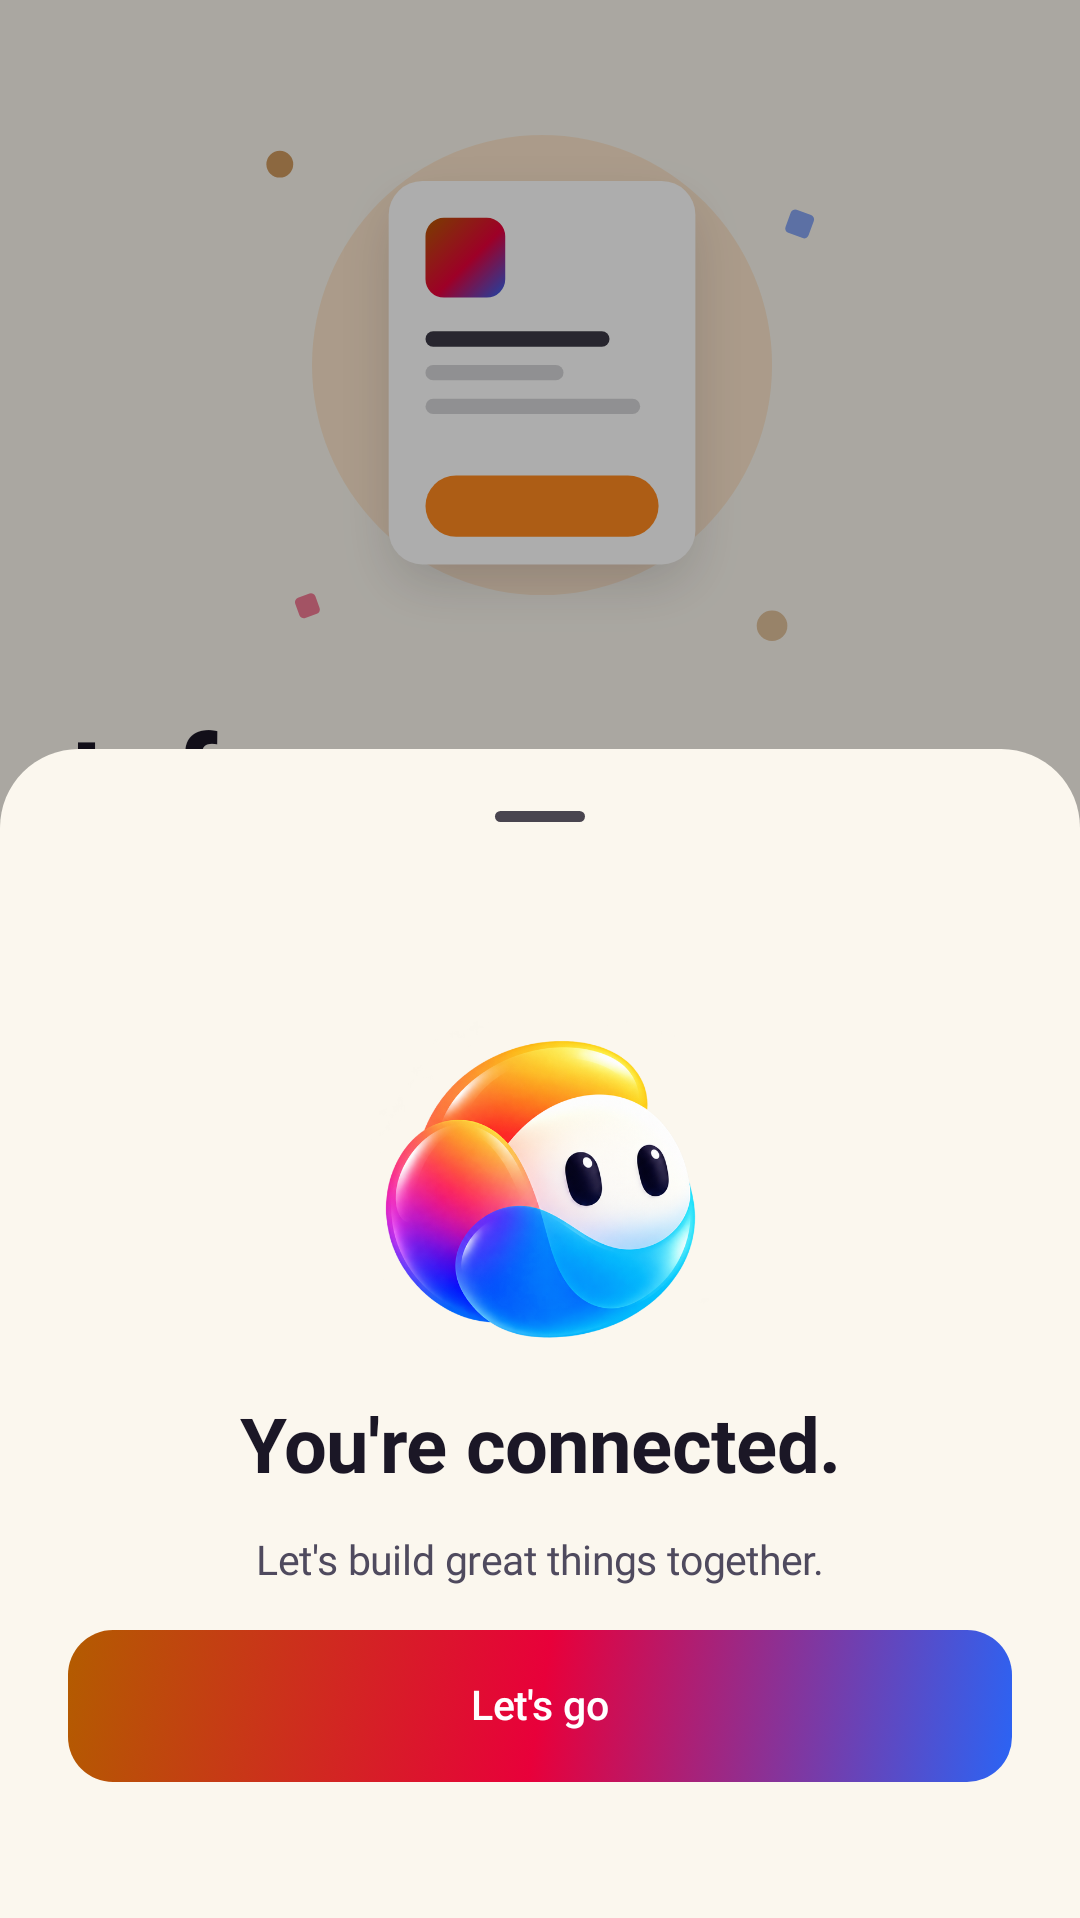
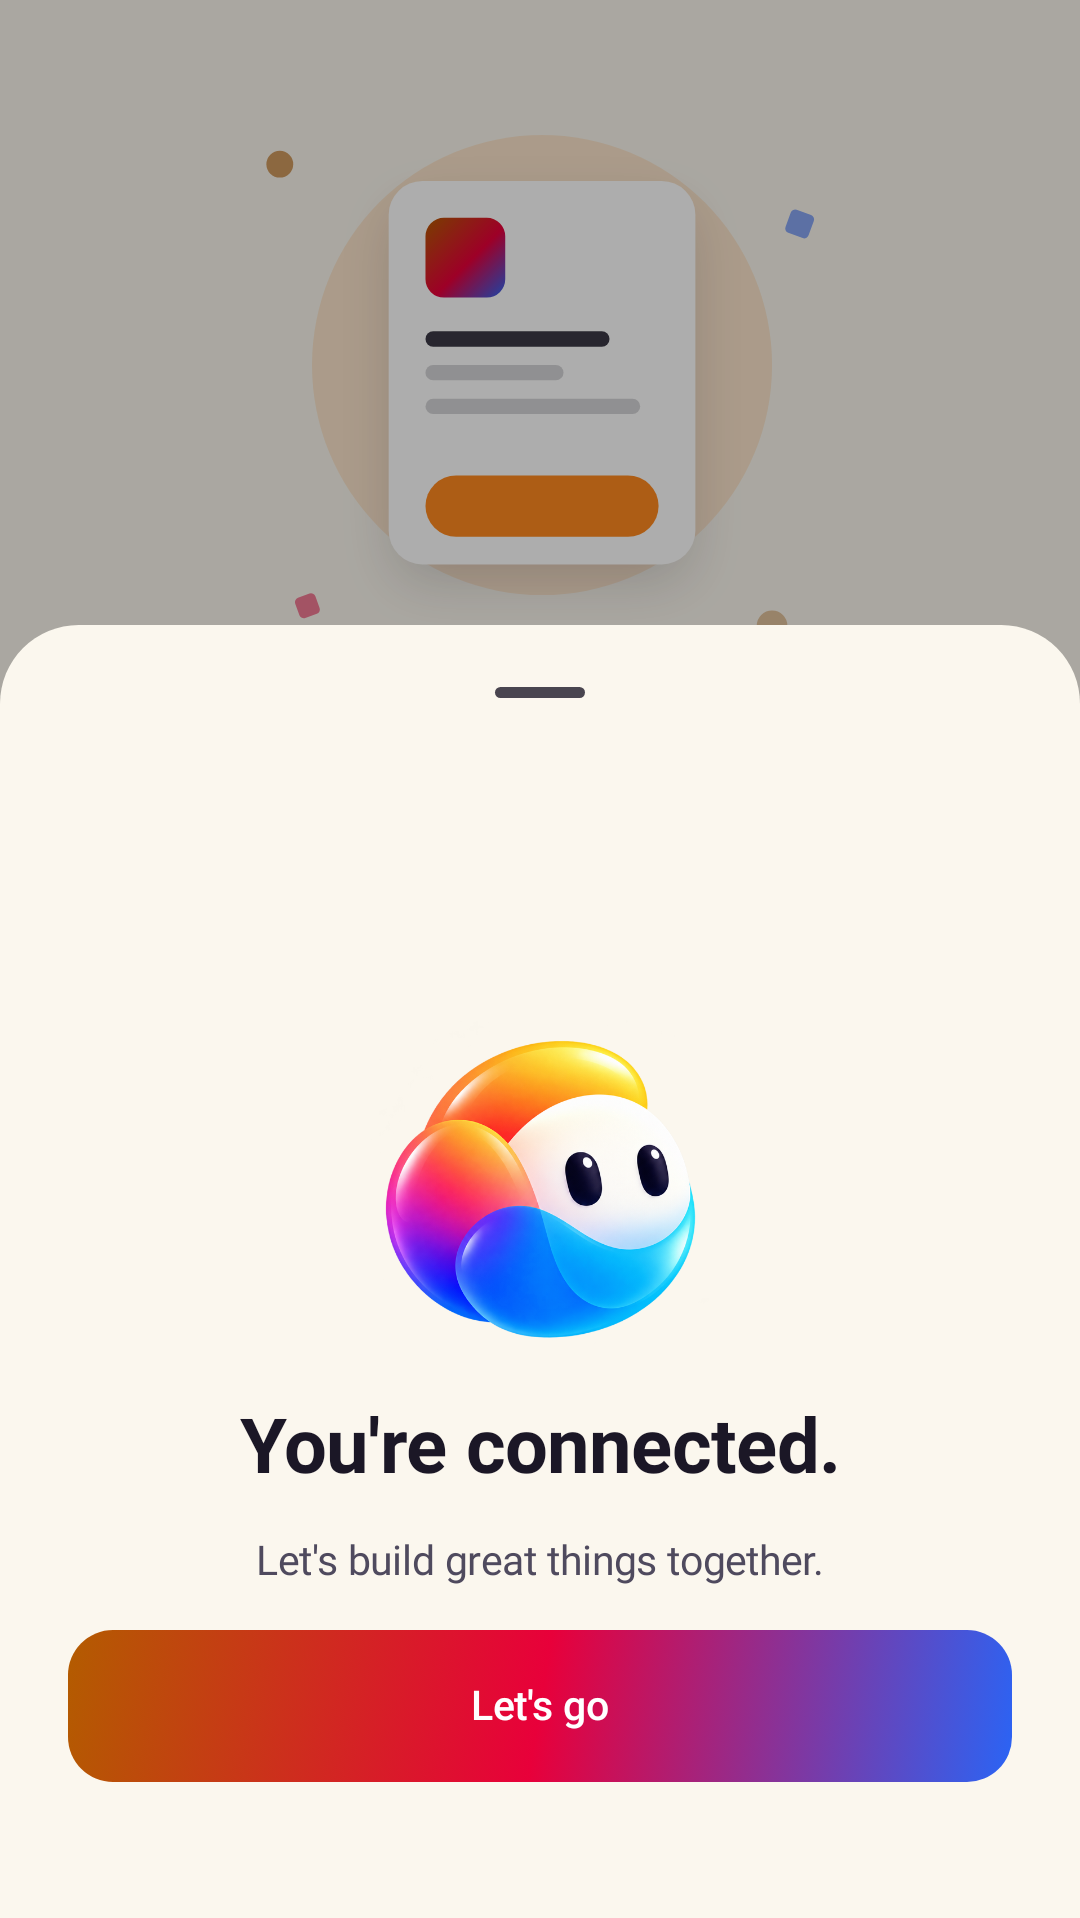
Android: the connected sheet keeps its height; the watch's docs name no device model

Changed region(s): [[0.0, 0.3076, 1.0, 0.4307]]

diff --git a/android/app/src/main/kotlin/bot/tafs/app/views/SignInView.kt b/android/app/src/main/kotlin/bot/tafs/app/views/SignInView.kt
@@ -145,12 +145,13 @@ fun SignInSheet(model: AppModel, onClose: () -> Unit) {
     containerColor = Theme.background,
   ) {
     Column(Modifier.fillMaxWidth().navigationBarsPadding()) {
-      // Once connected, Let's go is the one way on: no Cancel above it.
+      // Once connected, Let's go is the one way on: no Cancel above it. Its row keeps its height, so the sheet doesn't shrink
+      // and show the screen behind it cut at its edge.
       if (!connected) Text(
         Words.Common.cancel,
         style = scaled(17, color = Theme.amber),
         modifier = Modifier.padding(horizontal = 24.dp).heightIn(min = 44.dp).tapping(onClick = close).padding(top = 8.dp),
-      )
+      ) else androidx.compose.foundation.layout.Spacer(Modifier.padding(horizontal = 24.dp).heightIn(min = 44.dp).padding(top = 8.dp))
       Column(
         Modifier.verticalScroll(rememberScrollState()).padding(24.dp),
         verticalArrangement = Arrangement.spacedBy(16.dp),

diff --git a/docs/README.md b/docs/README.md
@@ -35,7 +35,7 @@ A page that no longer matches the code is a bug (see [AGENTS.md](../AGENTS.md)).
 | [watch-app.md](watch-app.md) | The Apple Watch companion (watchOS 10 and later): what it does in v1, how it reaches tafs cloud and KIFF through the iPhone, and where its code is |
 | [computer-passkeys.md](computer-passkeys.md) | How a computer approves with a passkey: a Mac with Touch ID, Windows Hello, and a USB security key or the phone for a Mac without Touch ID and Linux; what a passkey approval carries |
 | [android-app.md](android-app.md) | The Android app's code: building and testing it, its packages, signing, releases |
-| [watch-wear.md](watch-wear.md) | The Wear OS watch (Samsung Galaxy Watch, Pixel Watch): a companion to the Android app that asks the phone, holds no keys, and what it may and may not do |
+| [watch-wear.md](watch-wear.md) | The Wear OS watch (Wear OS 3 or later): a companion to the Android app that asks the phone, holds no keys, and what it may and may not do |
 | [data.md](data.md) | Where every piece of data lives, for how long, and who deletes it |
 | [kiff-decides.md](kiff-decides.md) | How KIFF decides every taf action, with the first held calls on a phone |
 | [screenshots.md](screenshots.md) | The apps' screenshots, iPhone, iPad and Android, light and dark, and where each set comes from |

diff --git a/docs/watch-wear.md b/docs/watch-wear.md
@@ -1,6 +1,6 @@
 # The Wear OS watch
 
-A small companion to the Android app, on Wear OS 3 and later: Samsung Galaxy Watch (Watch4 onwards) and Pixel Watch. It is
+A small companion to the Android app, on Wear OS 3 or later. It is
 the same product, account and words as the phone, drawn smaller, with no sign-in of its own. It is being built in steps;
 this page says what is there now and what each step adds.
 
